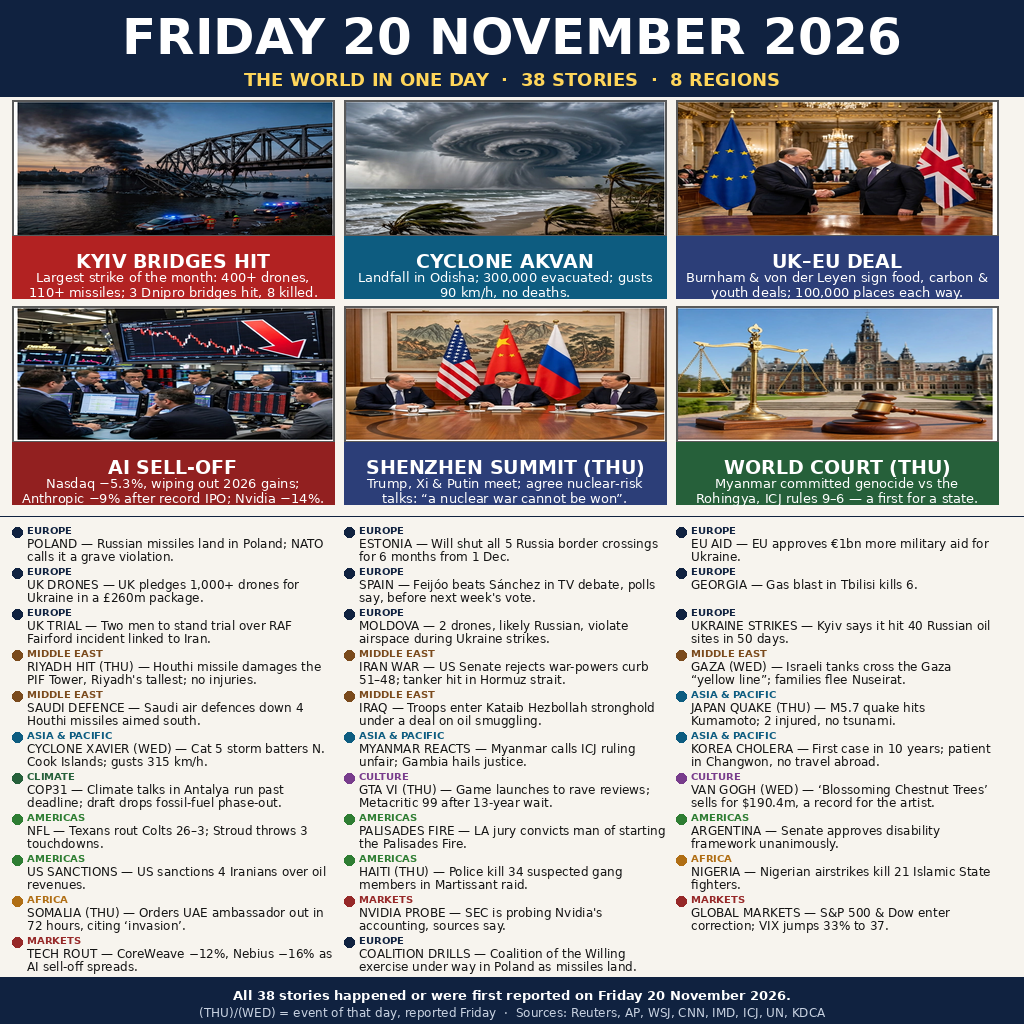
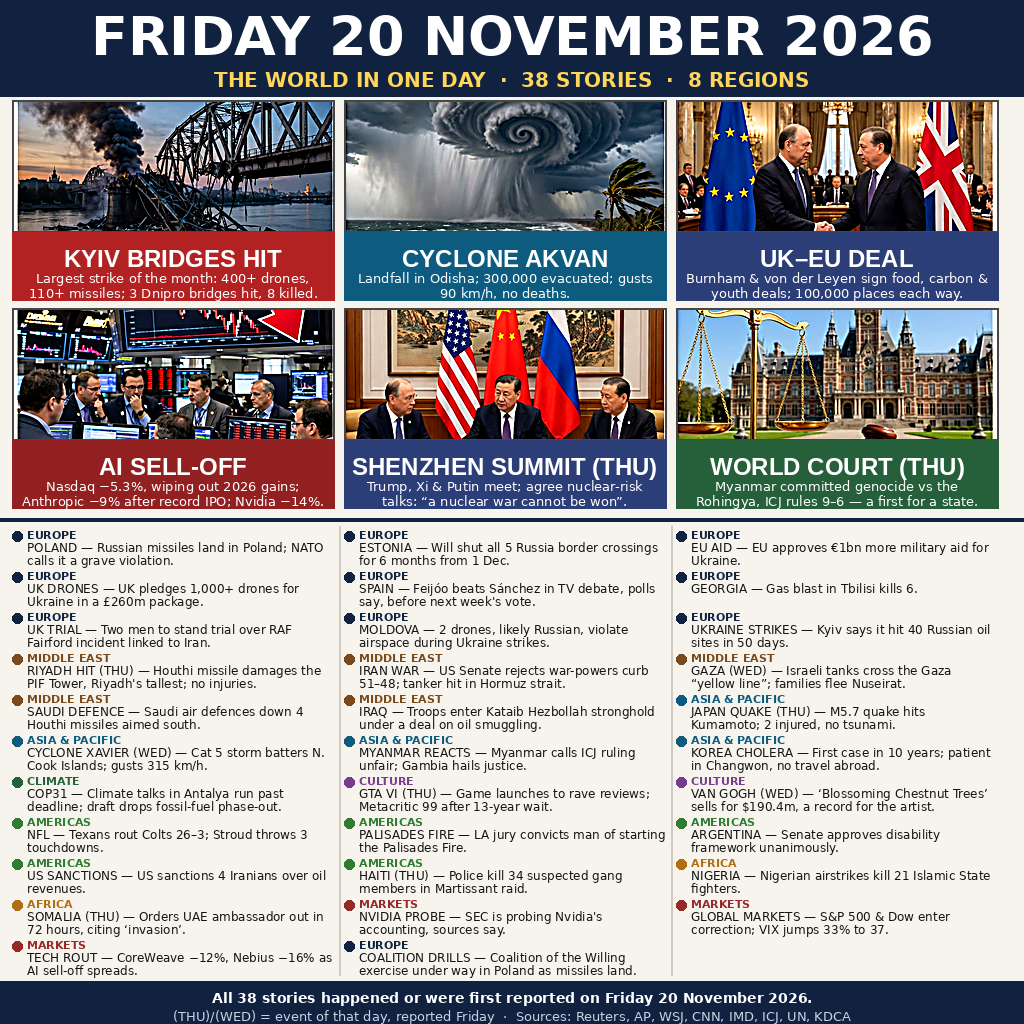
news-image-20261120 round 5: craft pass, 38 stories unchanged
- Feature panels: true wide bands (640x264) instead of squashing the
  whole 640x640 square 2.4x; colour 1.10, contrast 1.12, unsharp mask.
  Mean Laplacian variance 3099 -> 10202 (3.3x sharper).
- Feature titles 19 -> 24 px (Liberation Sans Bold), caption bars
  62 -> 68 px; header date 50 -> 54 px, subline 18 -> 20 px.
- Grid: 4 px navy rule above, 2 px vertical column separators;
  region labels 10 -> 11 px; footer 13/12 -> 14/13 px.
- main.py rewritten fresh (copier only); verified 2x byte-identical
  builds, 681538 bytes, 1024x1024.

diff --git a/main.py b/main.py
@@ -1,45 +1,18 @@
-# SPDX-License-Identifier: MIT
-"""Entry for make.fun news-image-20261120 (round 4).
+"""Copy the round-5 entry image to the grader output directory.
 
-Copies the pre-built image ``entry.png`` to the output directory as
-``entry.png``. The image is a one-page newspaper collage summing up
-Friday 20 November 2026: a date header, six captioned feature panels
-(Kyiv bridges hit, Cyclone Akvan, UK-EU deal, AI sell-off, Shenzhen
-summit, World Court ruling) and 32 further headlines across 8 regions,
-38 stories in total.
-
-Round 4 changes vs round 3 (36 stories, commit 48a45ef): two new
-verified Friday stories added to the grid -- Iraq (troops enter the
-Kataib Hezbollah stronghold of Jurf al-Sakhar under a deal on oil
-smuggling, Reuters) and Korea cholera (first case in 10 years,
-Changwon patient, no overseas travel, AP/KDCA). The image is built
-by ``work/build_entry_r4.py`` (kept out of git by .gitignore, as in
-rounds 2-3); layout re-fit for the extra grid row (panels 136 px,
-grid rows stay 41 px); all other stories, feature captions and the
-6-panel base image are unchanged from round 3. Round-4 fact checks: Japan quake "2 injured"
-confirmed (JMA/Kyodo); AI sell-off figures confirmed (WSJ/Reuters/
-CNN: Nasdaq -5.3%, Anthropic -9%, Nvidia -14%, VIX +33% to 37).
-
-Deterministic: the same bytes are written on every run. The program
-needs no network and reads only the image shipped in this repository.
+Reads entry.png next to this file and writes it, byte for byte, to
+$MAKEFUN_OUTPUT_DIR/entry.png (or /output/entry.png when the variable
+is unset). No network, no randomness, no re-encoding: the output is
+identical to the committed image on every run.
 """
-
 import os
 import shutil
-import sys
 
+HERE = os.path.dirname(os.path.abspath(__file__))
+SRC = os.path.join(HERE, "entry.png")
+OUT_DIR = os.environ.get("MAKEFUN_OUTPUT_DIR") or "/output"
+DST = os.path.join(OUT_DIR, "entry.png")
 
-def main() -> int:
-    here = os.path.dirname(os.path.abspath(__file__))
-    source = os.path.join(here, "entry.png")
-    out_dir = os.environ.get("MAKEFUN_OUTPUT_DIR") or "/output"
-    os.makedirs(out_dir, exist_ok=True)
-    target = os.path.join(out_dir, "entry.png")
-    shutil.copyfile(source, target)
-    # Byte-identical on every run: a plain copy, no timestamps embedded.
-    # The shipped image is checked at build time: 1024x1024, <= 1 MiB.
-    return 0
-
-
-if __name__ == "__main__":
-    sys.exit(main())
+os.makedirs(OUT_DIR, exist_ok=True)
+shutil.copyfile(SRC, DST)
+print("copied", SRC, "->", DST, os.path.getsize(DST), "bytes")
